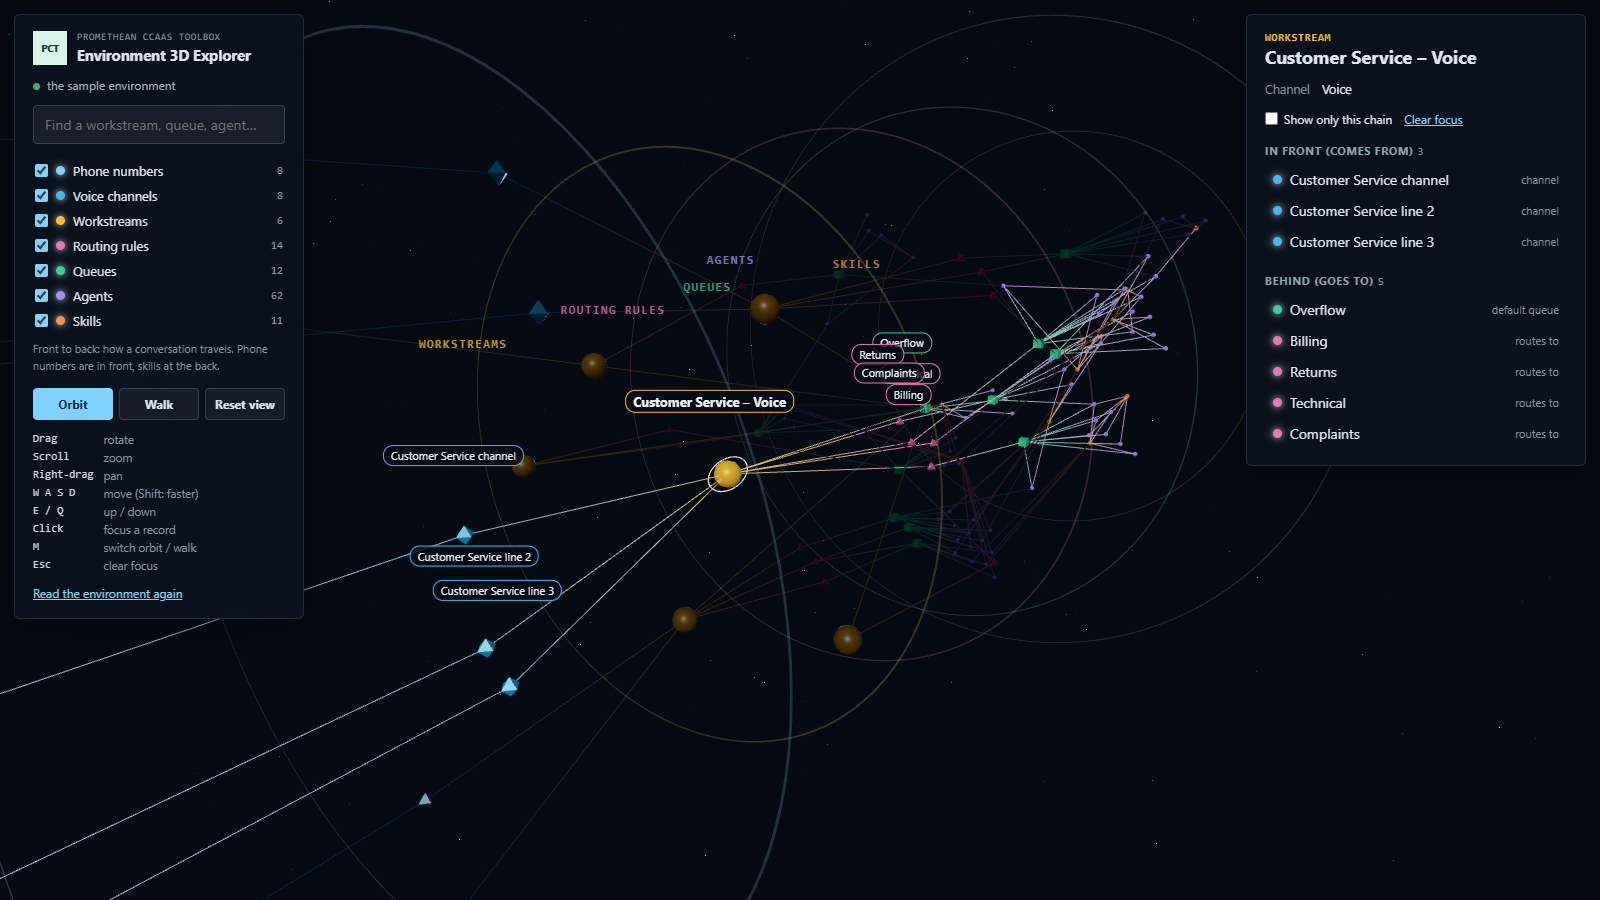
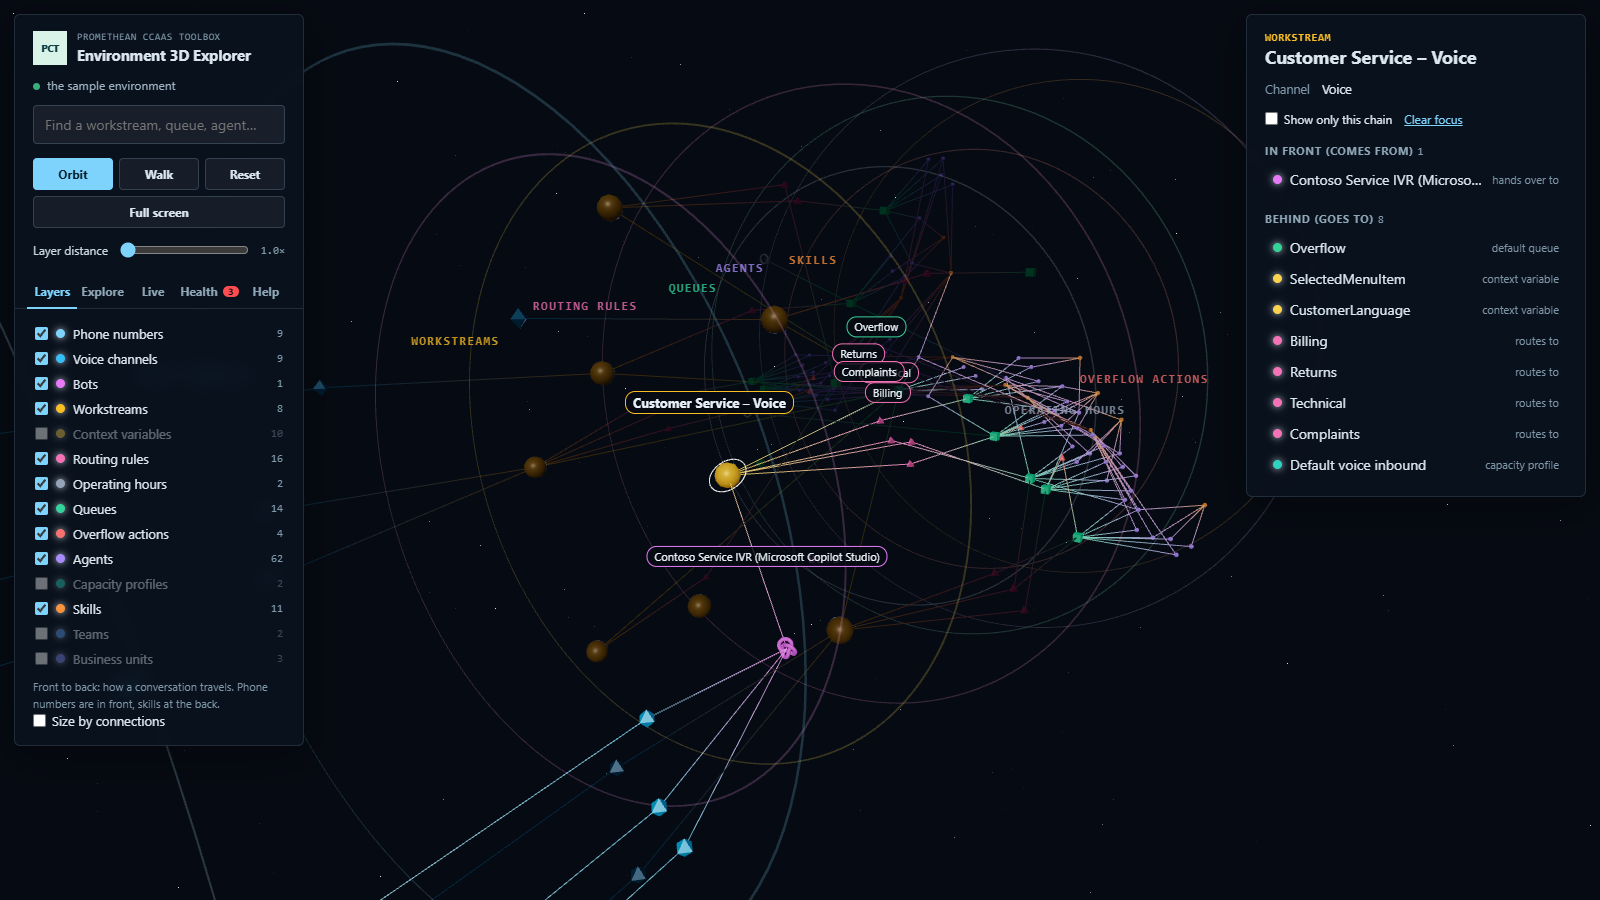
3D Explorer: screenshots for the tabbed panel; tab= page option
All manual screenshots retaken with the new panel (tabs, layer
distance, full screen). The page opens on the tab asked for with tab=,
or on the one that goes with health=1, live=1 or ride=1.

diff --git a/tools/environment-3d-explorer/src/urlOptions.ts b/tools/environment-3d-explorer/src/urlOptions.ts
@@ -1,7 +1,7 @@
 // Copyright (c) 2026 Alexander Meijers
 // SPDX-License-Identifier: MIT
 
-// What the page address can ask for: ?focus=<name>, ?health=1, ?ride=1, ?live=1 and ?depth=<1-3>. Dataverse hands a Site Map
+// What the page address can ask for: ?focus=<name>, ?health=1, ?ride=1, ?live=1, ?depth=<1-3> and ?tab=<name>. Dataverse hands a Site Map
 // subarea's parameters to the web resource as one "data" value, so data=focus%3DSales%26health%3D1
 // works too, and a plain data=<name> still means focus.
 
@@ -12,6 +12,8 @@ export interface UrlOptions {
   live: boolean;
   // Layer distance, 1 to 3; undefined when not asked for.
   depth?: number;
+  // The left panel tab to open on (layers, explore, live, health, help).
+  tab?: string;
 }
 
 const isOn = (value: string | null | undefined) => value !== null && value !== undefined && !/^(0|false|no|off)$/i.test(value.trim());
@@ -22,5 +24,6 @@ export function readUrlOptions(search: string): UrlOptions {
   const inner = data.includes("=") ? new URLSearchParams(data) : undefined;
   const focus = (params.get("focus") ?? inner?.get("focus") ?? (inner ? undefined : data))?.trim();
   const depth = Number(params.get("depth") ?? inner?.get("depth"));
-  return { depth: Number.isFinite(depth) && depth > 0 ? Math.min(3, Math.max(1, depth)) : undefined, focus: focus || undefined, health: isOn(params.get("health")) || isOn(inner?.get("health")), ride: isOn(params.get("ride")) || isOn(inner?.get("ride")), live: isOn(params.get("live")) || isOn(inner?.get("live")) };
+  const tab = (params.get("tab") ?? inner?.get("tab"))?.trim().toLowerCase();
+  return { tab: tab || undefined, depth: Number.isFinite(depth) && depth > 0 ? Math.min(3, Math.max(1, depth)) : undefined, focus: focus || undefined, health: isOn(params.get("health")) || isOn(inner?.get("health")), ride: isOn(params.get("ride")) || isOn(inner?.get("ride")), live: isOn(params.get("live")) || isOn(inner?.get("live")) };
 }

diff --git a/tools/environment-3d-explorer/src/App.tsx b/tools/environment-3d-explorer/src/App.tsx
@@ -106,7 +106,8 @@ export function App(): React.ReactElement {
   const [views, setViews] = useState<SavedView[]>(() => loadViews(environment));
   const [viewName, setViewName] = useState("");
   const sceneHandle = useRef<SceneHandle | null>(null);
-  const [tab, setTab] = useState<Tab>("layers");
+  // Open on the tab asked for, or on the one that goes with what the address switched on.
+  const [tab, setTab] = useState<Tab>(() => TABS.find((t) => t.id === urlOptions.tab)?.id ?? (urlOptions.health ? "health" : urlOptions.live ? "live" : urlOptions.ride ? "explore" : "layers"));
   const [depth, setDepth] = useState(urlOptions.depth ?? 1);
   const [fullscreen, setFullscreen] = useState(false);
   const [fullscreenError, setFullscreenError] = useState("");

diff --git a/tools/environment-3d-explorer/tests/views.test.ts b/tools/environment-3d-explorer/tests/views.test.ts
@@ -27,6 +27,11 @@ describe("readUrlOptions", () => {
     expect(readUrlOptions("?depth=abc").depth).toBeUndefined();
   });
 
+  test("reads the tab to open on", () => {
+    expect(readUrlOptions("?tab=Health").tab).toBe("health");
+    expect(readUrlOptions("?data=tab%3Dlive").tab).toBe("live");
+  });
+
   test("a plain data value is a record name", () => {
     expect(readUrlOptions("?data=Billing")).toEqual({ focus: "Billing", health: false, ride: false, live: false });
   });

diff --git a/tools/environment-3d-explorer/manual.md b/tools/environment-3d-explorer/manual.md
@@ -108,4 +108,4 @@ The scene shows the environment as it was when the page loaded. After you change
 
 ## 8. Opening the tool from a link
 
-Add `?focus=<name>` to the page address to open the explorer focused on the record with that name. For example: `…/index.html?focus=Customer%20Service`. In a Site Map subarea, the same name can go in the web resource's **data** parameter. Add `health=1` (for example `…/index.html?health=1`) to open it with the health overlay on, `live=1` for live activity, `depth=2` for the layer distance, and `ride=1` to start following the call as soon as the page opens (together with `focus`, from that record). In a Site Map subarea, put them in the **data** parameter, for example `focus=Customer Service&ride=1`.
+Add `?focus=<name>` to the page address to open the explorer focused on the record with that name. For example: `…/index.html?focus=Customer%20Service`. In a Site Map subarea, the same name can go in the web resource's **data** parameter. Add `health=1` (for example `…/index.html?health=1`) to open it with the health overlay on, `live=1` for live activity, `depth=2` for the layer distance, `tab=health` (or another tab name) to open on that tab, and `ride=1` to start following the call as soon as the page opens (together with `focus`, from that record). In a Site Map subarea, put them in the **data** parameter, for example `focus=Customer Service&ride=1`.

diff --git a/tools/environment-3d-explorer/README.md b/tools/environment-3d-explorer/README.md
@@ -46,7 +46,7 @@ The left panel keeps the search box, the camera buttons (**Orbit**, **Walk**, **
 - **Size by connections** makes each record's size show how many links it has, so busy queues and big workstreams stand out.
 - **Save view** keeps the current camera position under a name; click a saved view to fly back to it. Saved views stay in this browser, per environment.
 - **Screenshot** downloads the current view as a PNG (without the name labels, which are HTML on top of the scene).
-- The page address can ask for `focus=<name>`, `health=1`, `live=1`, `depth=<1 to 3>` (layer distance) and `ride=1` (start following the call when the page opens, from the focused record if there is one). On a Site Map subarea, put them in the web resource's data parameter, for example `focus=Sales&ride=1`; a plain data value is read as a record name.
+- The page address can ask for `focus=<name>`, `health=1`, `live=1`, `depth=<1 to 3>` (layer distance), `tab=<layers, explore, live, health or help>` and `ride=1` (start following the call when the page opens, from the focused record if there is one). On a Site Map subarea, put them in the web resource's data parameter, for example `focus=Sales&ride=1`; a plain data value is read as a record name.
 
 ![A workstream in focus](images/01-workstream-focus.png)
 

diff --git a/tools/environment-3d-explorer/IMPLEMENTATION_STATUS.md b/tools/environment-3d-explorer/IMPLEMENTATION_STATUS.md
@@ -77,6 +77,7 @@ Schema, read-only and checked live on academyexperiment (2026-10-23), or already
 After the user's review: the left panel had grown too long, layers were hard to read with many of them, and the app's menu took room.
 
 - **Tabs**: the header, search, camera buttons and layer distance stay on top; Layers, Explore, Live, Health and Help below. Panels' state lives in the page, so switching tabs switches nothing off.
+- **Opening tab**: `tab=<name>` in the page address, or otherwise the tab that goes with what the address switches on (Health with `health=1`, Live with `live=1`, Explore with `ride=1`).
 - **Layer distance** (1× to 3×, also `depth=` in the page address): positions are laid out once and only their depth is stretched, so dragging the slider doesn't redo the layout. The camera, the orbit point, the layer rings and the fog stretch with it.
 - **Full screen** requests full screen on the app's frame (`window.frameElement`, reachable because the web resource and the app share an origin), so the app's menu and header go; outside a frame, the page itself. If the app's page refuses, the page itself is tried, then a message is shown. To check inside the app: whether the browser allows it from the frame without extra frame permissions.
 
